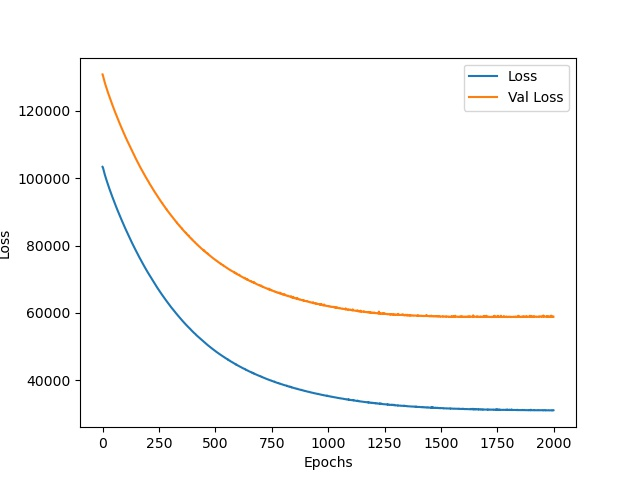
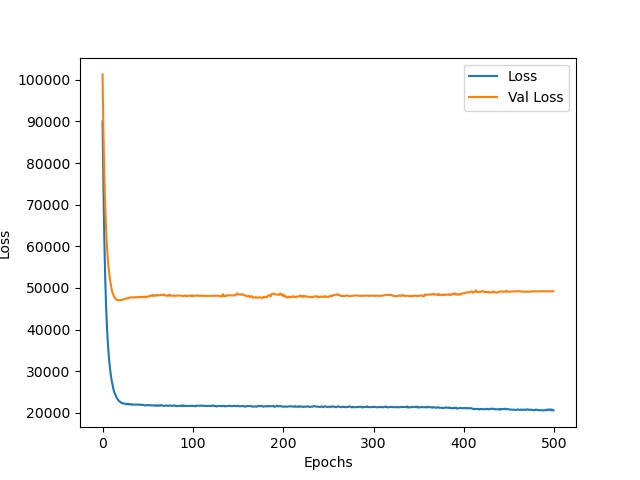
Update

diff --git a/prediction_for_lily_price_and_volume/train.py b/prediction_for_lily_price_and_volume/train.py
@@ -29,10 +29,10 @@ else:
 n = 10  # 取前n天的資料作為特徵
 
 #載入資料集
-train_x = pd.read_csv(r'D:\dataset\lilium_price\train_x\105-108all.csv', encoding='utf-8')
-train_y = pd.read_csv(r'D:\dataset\lilium_price\train_y\105-108all.csv', encoding='utf-8')
-val_x = pd.read_csv(r'D:\dataset\lilium_price\val_x\105-108all.csv', encoding='utf-8')
-val_y = pd.read_csv(r'D:\dataset\lilium_price\val_y\105-108all.csv', encoding='utf-8')
+train_x = pd.read_csv(r'D:\dataset\lilium_price\train_x\100-108all.csv', encoding='utf-8')
+train_y = pd.read_csv(r'D:\dataset\lilium_price\train_y\100-108all.csv', encoding='utf-8')
+val_x = pd.read_csv(r'D:\dataset\lilium_price\val_x\100-108all.csv', encoding='utf-8')
+val_y = pd.read_csv(r'D:\dataset\lilium_price\val_y\100-108all.csv', encoding='utf-8')
 
 #正規化
 x_scaler = StandardScaler().fit(train_x)
@@ -52,13 +52,17 @@ valset = utils.Setloader(val_x, val_y)
 batch_size = 100
 val_batch_size = 100
 LR = 0.01
-num_epochs = 2000
+num_epochs = 500
 
 model = model.RNN_model(input_dim=train_x.shape[1], output_dim=train_y.shape[1]).to(device)
 # 選擇優化器與損失函數
 optimizer = torch.optim.AdamW(model.parameters(), lr=LR) 
 criterion = nn.MSELoss().to(device)
-scheduler = lr_scheduler.StepLR(optimizer, step_size=200, gamma=1)
+# scheduler = lr_scheduler.StepLR(optimizer, step_size=50, gamma=0.9)
+scheduler = lr_scheduler.CosineAnnealingLR(optimizer,
+                                               T_max=100,
+                                               eta_min=1e-6,
+                                               last_epoch=-1)
 
 trainloader = DataLoader(trainset, batch_size=batch_size, shuffle=True)
 valloader = DataLoader(valset, batch_size=val_batch_size, shuffle=True)
@@ -127,7 +131,7 @@ for epoch in range(num_epochs):
     mae_list.append(mae)
     print('train_loss: {:.4f}, valid_loss: {:.4f}, MAE:{:.2f}, lr:{:.1e}'.format(loss, val_loss, mae, scheduler.get_last_lr()[0]) )
     #每10個epochs及最後一個epoch儲存模型
-    if (not epoch % 100) or (epoch == num_epochs)  :
+    if (not epoch % 10) or (epoch == num_epochs)  :
         torch.save(model.state_dict(), './logs/epoch%d-loss%.4f-val_loss%.4f-mae%.2f.pth' %(epoch, loss, val_loss, mae))
 
 

diff --git a/prediction_for_lily_price_and_volume/test.py b/prediction_for_lily_price_and_volume/test.py
@@ -10,7 +10,6 @@ from tqdm import tqdm
 from sklearn.preprocessing import StandardScaler
 import datetime
 
-id = np.arange(1, 373)
 def new_x(predict, test_x, n, x_scaler):
     test_x =  x_scaler.inverse_transform(test_x)
 
@@ -25,8 +24,8 @@ start = datetime.datetime(2019, 12,31)
 end = datetime.datetime(2020, 12,31)
 interval = (end - start).days
 
-path_lastyear_year = r'D:\dataset\lilium_price\val_x\105-108all.csv'    #前一年的訓練資料
-path_weight = r'./weights/epoch100-loss30260.2770-val_loss58149.4132-mae92.15.pth' #權重
+path_lastyear_year = r'D:\dataset\lilium_price\val_x\100-108all.csv'    #前一年的訓練資料
+path_weight = r'./weights/epoch500-loss20809.3832-val_loss47976.5828-mae85.27.pth' #權重
 sub_path = './results/test_flower_price.csv'    #submit格式
 path_result_csv = './results/109_result.csv'
 flower_name = ['FS443', 'FS479', 'FS592', 'FS609', 'FS639', 'FS779', 'FS859', 'FS879', 'FS899', 'FS929']    # 需與訓練時的處理順序相同
@@ -68,7 +67,7 @@ for i in tqdm(range(interval)):
 output_arr = np.array(output_list)
 result_df = pd.DataFrame(output_arr)
 result_df.insert(0,'date',date_list)
-# result_df.to_csv(path_result_csv, float_format='%.2f', header=header)
+result_df.to_csv(path_result_csv, float_format='%.2f', header=header)
 
 
 # #輸出預測結果

diff --git a/prediction_for_lily_price_and_volume/net/model.py b/prediction_for_lily_price_and_volume/net/model.py
@@ -8,7 +8,7 @@ class RNN_model(nn.Module):
 
         self.rnn1 = nn.LSTM(
             input_size=input_dim,
-            hidden_size=256,
+            hidden_size=1024,
             num_layers=2,
             batch_first=True
         )
@@ -21,12 +21,13 @@ class RNN_model(nn.Module):
         
         self.drop = nn.Dropout(0.5)
         self.out = nn.Sequential(
-            nn.Linear(256, output_dim)
+            nn.Linear(1024, output_dim)
         )
 
     def forward(self, x):
         # out = self.dnn1(x)
         # out = self.dnn2(out)
+        # out = self.drop(out)
         out, (h_n, h_c) = self.rnn1(x, None)  # None 表示 hidden state 會用全0的 state
         out = self.drop(out)
         # out, (h_n, h_c) = self.rnn2(out, None)        
